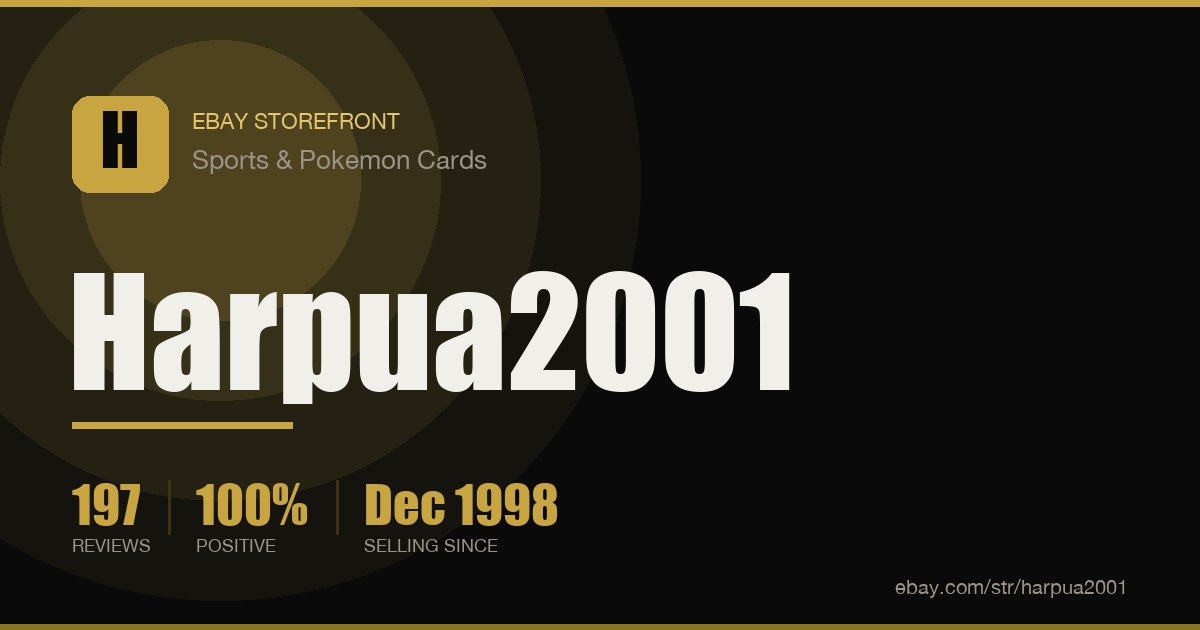
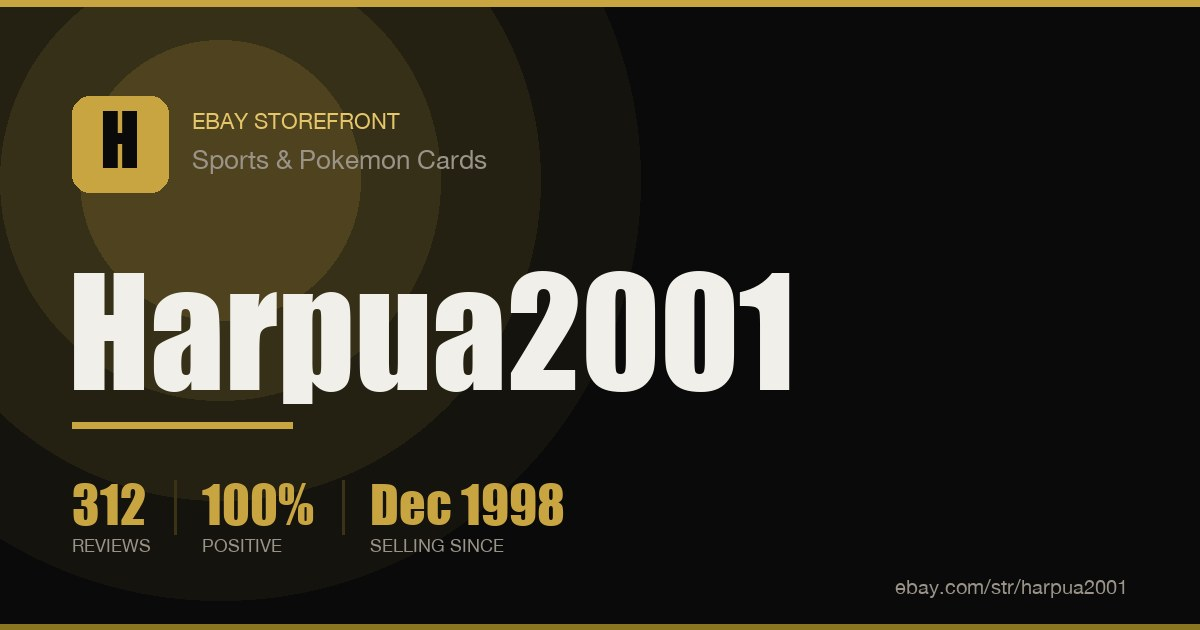
Refresh regenerated pages (deals/sold/og-card) from partial site build

Changed region(s): [[0.0617, 0.754, 0.4933, 0.8746]]

diff --git a/docs/sold.html b/docs/sold.html
@@ -1941,9 +1941,9 @@ textarea:focus-visible, [contenteditable]:focus-visible, [role="button"]:focus-v
     </div>
 
     <div class="stat-grid">
-      <div class="stat-card"><div class="num">299</div><div class="lbl">Items Sold</div></div>
-      <div class="stat-card"><div class="num">$3,065</div><div class="lbl">Gross Revenue</div></div>
-      <div class="stat-card"><div class="num">$10.25</div><div class="lbl">Avg Sale Price</div></div>
+      <div class="stat-card"><div class="num">300</div><div class="lbl">Items Sold</div></div>
+      <div class="stat-card"><div class="num">$3,070</div><div class="lbl">Gross Revenue</div></div>
+      <div class="stat-card"><div class="num">$10.23</div><div class="lbl">Avg Sale Price</div></div>
       <div class="stat-card"><div class="num">160</div><div class="lbl">Unique Buyers</div></div>
     </div>
 
@@ -1951,6 +1951,27 @@ textarea:focus-visible, [contenteditable]:focus-visible, [role="button"]:focus-v
 
     <div class="sold-grid">
       
+      <article class="sold-card" data-id="307061154354">
+        <div class="sold-thumb"><div style="display:flex;align-items:center;justify-content:center;height:100%;color:var(--text-dim);font-size:11px;">No image</div></div>
+        <div class="sold-body">
+          <div class="sold-meta-row">
+            <span class="tag tag-success">SOLD</span>
+            <span class="sold-date">Jul 13, 2026</span>
+            
+          </div>
+          <a href="https://www.ebay.com/itm/307061154354" target="_blank" rel="noopener" class="sold-title">Patrick Mahomes 5 Card Lot Kansas City Chiefs Panini Icon Collection Football</a>
+          <div class="sold-meta-row" style="margin-top:6px;">
+            <span class="tag">r*******</span>
+            
+            
+          </div>
+        </div>
+        <div class="sold-price-block">
+          <div class="sold-price">$5.00</div>
+          <div class="sold-ship">+ $5.99 ship</div>
+        </div>
+      </article>
+
       <article class="sold-card" data-id="307021758170">
         <div class="sold-thumb"><div style="display:flex;align-items:center;justify-content:center;height:100%;color:var(--text-dim);font-size:11px;">No image</div></div>
         <div class="sold-body">
@@ -8241,8 +8262,8 @@ textarea:focus-visible, [contenteditable]:focus-visible, [role="button"]:focus-v
           data: {
             labels: lbls,
             datasets: [
-              { label: 'Revenue ($)', data: [356.18, 363.06, 14.95, 642.1, 1376.57, 312.26], backgroundColor: 'rgba(212,175,55,.55)', borderColor: '#d4af37', borderWidth: 1.5, borderRadius: 6, yAxisID: 'y' },
-              { label: 'Items',        data: [20, 9, 5, 67, 163, 35],   type: 'line',  backgroundColor: 'rgba(127,199,122,.2)', borderColor: '#7fc77a', borderWidth: 2, tension: 0.35, yAxisID: 'y1' }
+              { label: 'Revenue ($)', data: [356.18, 363.06, 14.95, 642.1, 1376.57, 317.26], backgroundColor: 'rgba(212,175,55,.55)', borderColor: '#d4af37', borderWidth: 1.5, borderRadius: 6, yAxisID: 'y' },
+              { label: 'Items',        data: [20, 9, 5, 67, 163, 36],   type: 'line',  backgroundColor: 'rgba(127,199,122,.2)', borderColor: '#7fc77a', borderWidth: 2, tension: 0.35, yAxisID: 'y1' }
             ]
           },
           options: {
@@ -8259,7 +8280,7 @@ textarea:focus-visible, [contenteditable]:focus-visible, [role="button"]:focus-v
   </main>
 
   <footer class="app-footer">
-    Updated Jul 13, 2026 · 15:38 UTC · <a href="https://www.ebay.com/usr/harpua2001" class="seller-link" target="_blank" rel="noopener">Harpua2001 on eBay</a>
+    Updated Jul 13, 2026 · 19:05 UTC · <a href="https://www.ebay.com/usr/harpua2001" class="seller-link" target="_blank" rel="noopener">Harpua2001 on eBay</a>
     · <a href="return-policy.html" class="seller-link">Returns &amp; Shipping</a>
   </footer>
 

diff --git a/docs/deals.html b/docs/deals.html
@@ -2278,7 +2278,7 @@ textarea:focus-visible, [contenteditable]:focus-visible, [role="button"]:focus-v
   </main>
 
   <footer class="app-footer">
-    Updated Jul 13, 2026 · 15:38 UTC · <a href="https://www.ebay.com/usr/harpua2001" class="seller-link" target="_blank" rel="noopener">Harpua2001 on eBay</a>
+    Updated Jul 13, 2026 · 19:05 UTC · <a href="https://www.ebay.com/usr/harpua2001" class="seller-link" target="_blank" rel="noopener">Harpua2001 on eBay</a>
     · <a href="return-policy.html" class="seller-link">Returns &amp; Shipping</a>
   </footer>
 